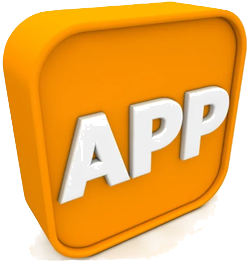
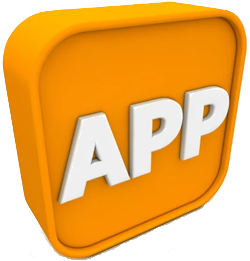
fix: drag-and-drop persistence, search bar 30%, thicker border
- Fix save bug: remove revalidate call after admin edits (was undoing
  the pinned cache, causing data to revert on page refresh)
- Reduce search bar width to 30%, aligned right
- Increase border thickness to 4px (border-4)
- Update appicon.png

Changed region(s): [[0.308, 0.7356, 0.868, 1.0], [0.14, 0.8889, 0.28, 1.0], [0.112, 0.9502, 0.14, 0.9808]]

diff --git a/app/admin/page.tsx b/app/admin/page.tsx
@@ -49,7 +49,6 @@ export default function AdminPage() {
     });
     if (res.ok) {
       await fetchData();
-      await fetch("/api/revalidate", { method: "POST" });
     }
     return res.ok;
   };
@@ -62,7 +61,6 @@ export default function AdminPage() {
     });
     if (res.ok) {
       await fetchData();
-      await fetch("/api/revalidate", { method: "POST" });
     }
     return res.ok;
   };

diff --git a/app/page.tsx b/app/page.tsx
@@ -45,7 +45,7 @@ export default async function HomePage() {
         <AdminButton />
       </div>
 
-      <div className="max-w-2xl mx-auto px-4 pt-12 mt-4 mb-8 border-2 border-[#1a2e4a] rounded-2xl py-8">
+      <div className="max-w-2xl mx-auto px-4 pt-12 mt-4 mb-8 border-4 border-[#1a2e4a] rounded-2xl py-8">
         <ProfileCard profile={data.profile} />
 
         <SearchBar />

diff --git a/components/SearchBar.tsx b/components/SearchBar.tsx
@@ -33,7 +33,7 @@ export function SearchBar() {
 
   return (
     <div className="mb-8 flex justify-end">
-      <div className="relative w-[70%]">
+      <div className="relative w-[30%]">
         <svg
           className="absolute left-3 top-1/2 -translate-y-1/2 w-5 h-5 text-[var(--text-secondary)]"
           fill="none"